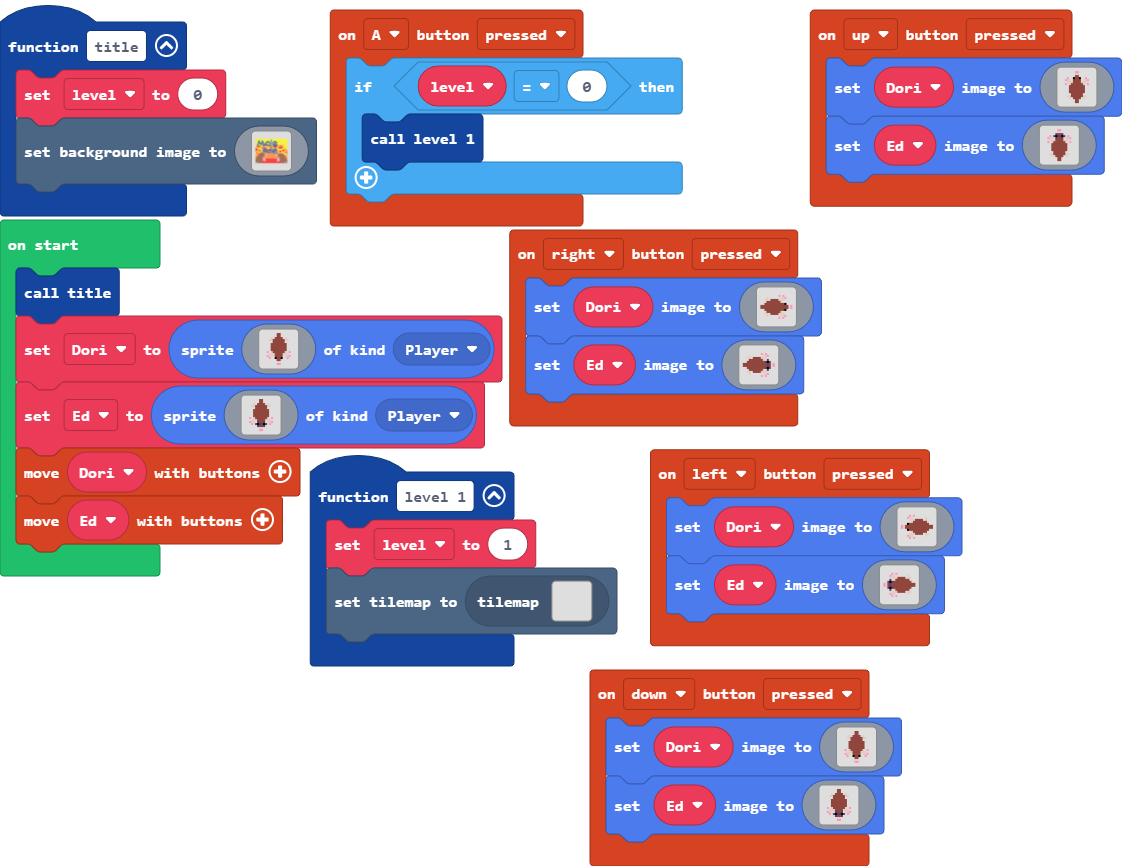
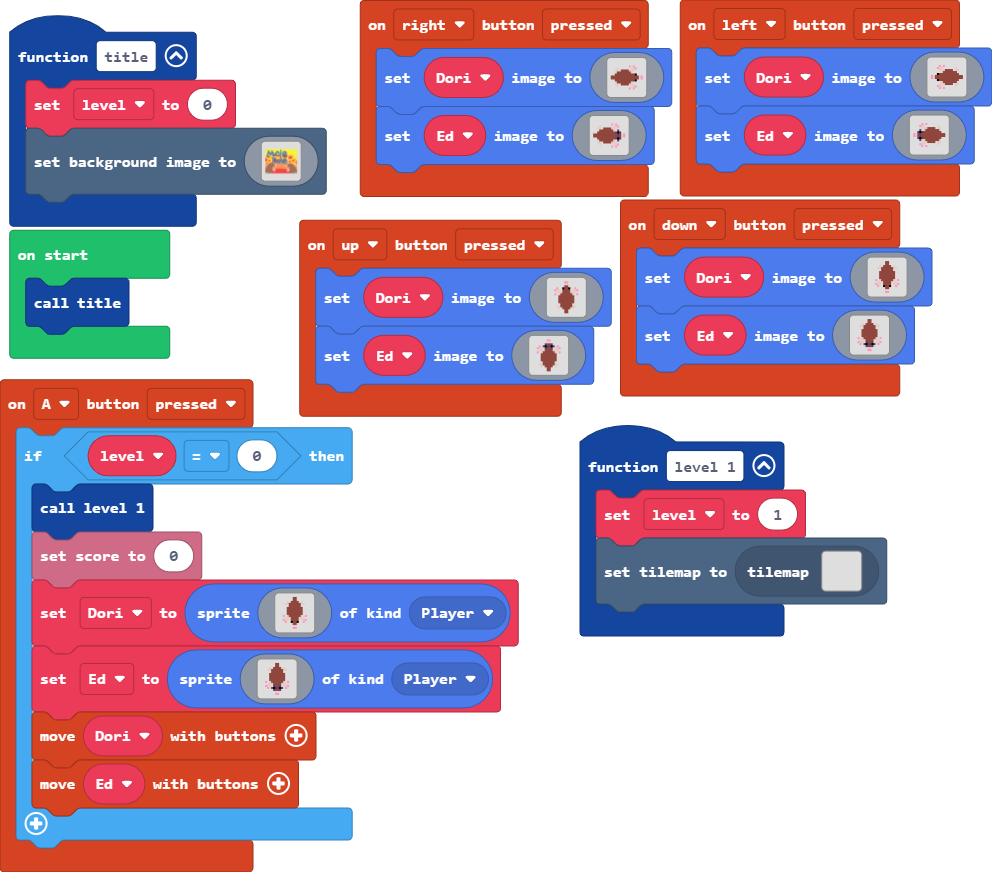
Update main.blocks, main.ts

diff --git a/main.ts b/main.ts
@@ -164,6 +164,45 @@ controller.up.onEvent(ControllerButtonEvent.Pressed, function () {
 controller.A.onEvent(ControllerButtonEvent.Pressed, function () {
     if (level == 0) {
         level_1()
+        info.setScore(0)
+        Dori = sprites.create(img`
+            . . . . . . . e e . . . . . . . 
+            . . . . . . . e e . . . . . . . 
+            . . . . d . e e e e . d . . . . 
+            . . . d d e e e e e e d d . . . 
+            . . . . . e e e e e e . . . . . 
+            . . . . e e e e e e e e . . . . 
+            . . . . e e e e e e e e . . . . 
+            . . . . e e e e e e e e . . . . 
+            . . . . e e e e e e e e . . . . 
+            . . 3 . d e e e e e e d . 3 . . 
+            . . . d d d e e e e d d d . . . 
+            . . 3 d d . e e e e . d d 3 . . 
+            . . . 3 . . f e e f . . 3 . . . 
+            . . . . . . . e e . . . . . . . 
+            . . . . . . . d d . . . . . . . 
+            . . . . . . . 3 3 . . . . . . . 
+            `, SpriteKind.Player)
+        Ed = sprites.create(img`
+            . . . . . . . e e . . . . . . . 
+            . . . . . . . e e . . . . . . . 
+            . . . . d . e e e e . d . . . . 
+            . . . d d e e e e e e d d . . . 
+            . . . . . e e e e e e . . . . . 
+            . . . . e e e e e e e e . . . . 
+            . . . . e e e e e e e e . . . . 
+            . . . . e e e e e e e e . . . . 
+            . . . . e e e e e e e e . . . . 
+            . . 3 . d e e e e e e d . 3 . . 
+            . . . d d d e e e e d d d . . . 
+            . . 3 d d . c e e c . d d 3 . . 
+            . . . 3 . c f c c f c . 3 . . . 
+            . . . . . . c e e c . . . . . . 
+            . . . . . . . d d . . . . . . . 
+            . . . . . . . 3 3 . . . . . . . 
+            `, SpriteKind.Player)
+        controller.moveSprite(Dori)
+        controller.moveSprite(Ed)
     }
 })
 controller.left.onEvent(ControllerButtonEvent.Pressed, function () {
@@ -284,45 +323,7 @@ controller.down.onEvent(ControllerButtonEvent.Pressed, function () {
         . . . . . . . 3 3 . . . . . . . 
         `)
 })
-let level = 0
 let Ed: Sprite = null
 let Dori: Sprite = null
+let level = 0
 title()
-Dori = sprites.create(img`
-    . . . . . . . e e . . . . . . . 
-    . . . . . . . e e . . . . . . . 
-    . . . . d . e e e e . d . . . . 
-    . . . d d e e e e e e d d . . . 
-    . . . . . e e e e e e . . . . . 
-    . . . . e e e e e e e e . . . . 
-    . . . . e e e e e e e e . . . . 
-    . . . . e e e e e e e e . . . . 
-    . . . . e e e e e e e e . . . . 
-    . . 3 . d e e e e e e d . 3 . . 
-    . . . d d d e e e e d d d . . . 
-    . . 3 d d . e e e e . d d 3 . . 
-    . . . 3 . . f e e f . . 3 . . . 
-    . . . . . . . e e . . . . . . . 
-    . . . . . . . d d . . . . . . . 
-    . . . . . . . 3 3 . . . . . . . 
-    `, SpriteKind.Player)
-Ed = sprites.create(img`
-    . . . . . . . e e . . . . . . . 
-    . . . . . . . e e . . . . . . . 
-    . . . . d . e e e e . d . . . . 
-    . . . d d e e e e e e d d . . . 
-    . . . . . e e e e e e . . . . . 
-    . . . . e e e e e e e e . . . . 
-    . . . . e e e e e e e e . . . . 
-    . . . . e e e e e e e e . . . . 
-    . . . . e e e e e e e e . . . . 
-    . . 3 . d e e e e e e d . 3 . . 
-    . . . d d d e e e e d d d . . . 
-    . . 3 d d . c e e c . d d 3 . . 
-    . . . 3 . c f c c f c . 3 . . . 
-    . . . . . . c e e c . . . . . . 
-    . . . . . . . d d . . . . . . . 
-    . . . . . . . 3 3 . . . . . . . 
-    `, SpriteKind.Player)
-controller.moveSprite(Dori)
-controller.moveSprite(Ed)
